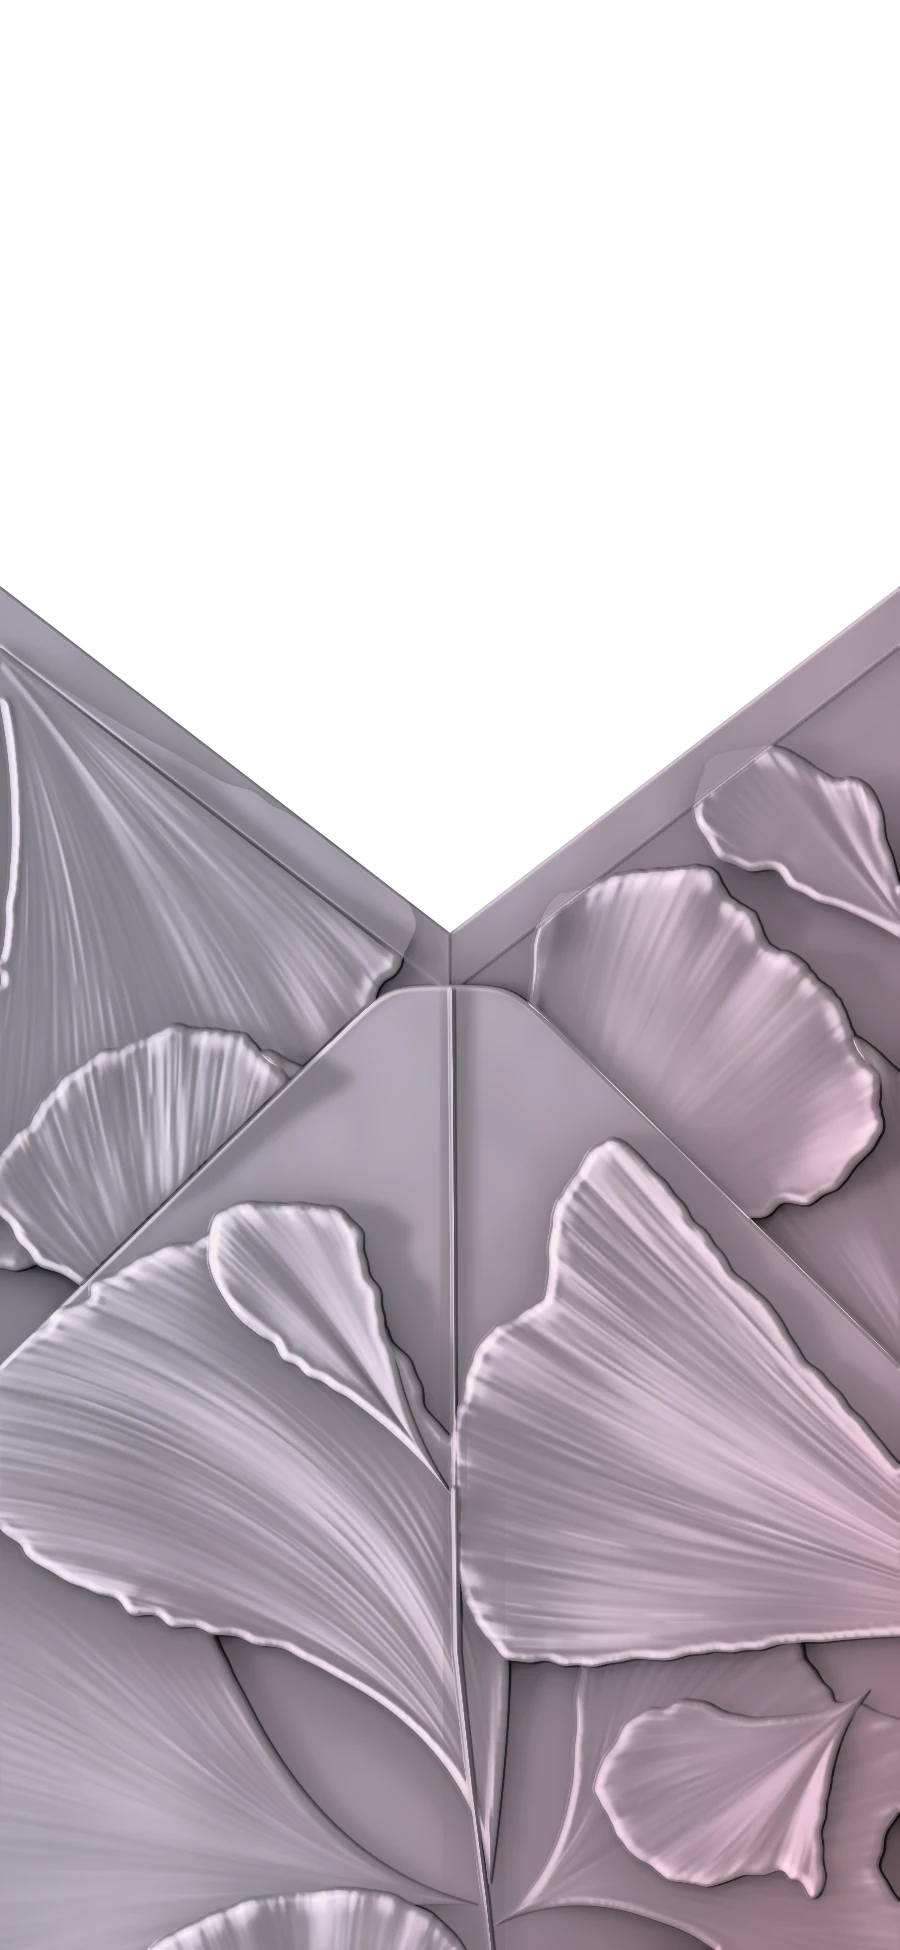
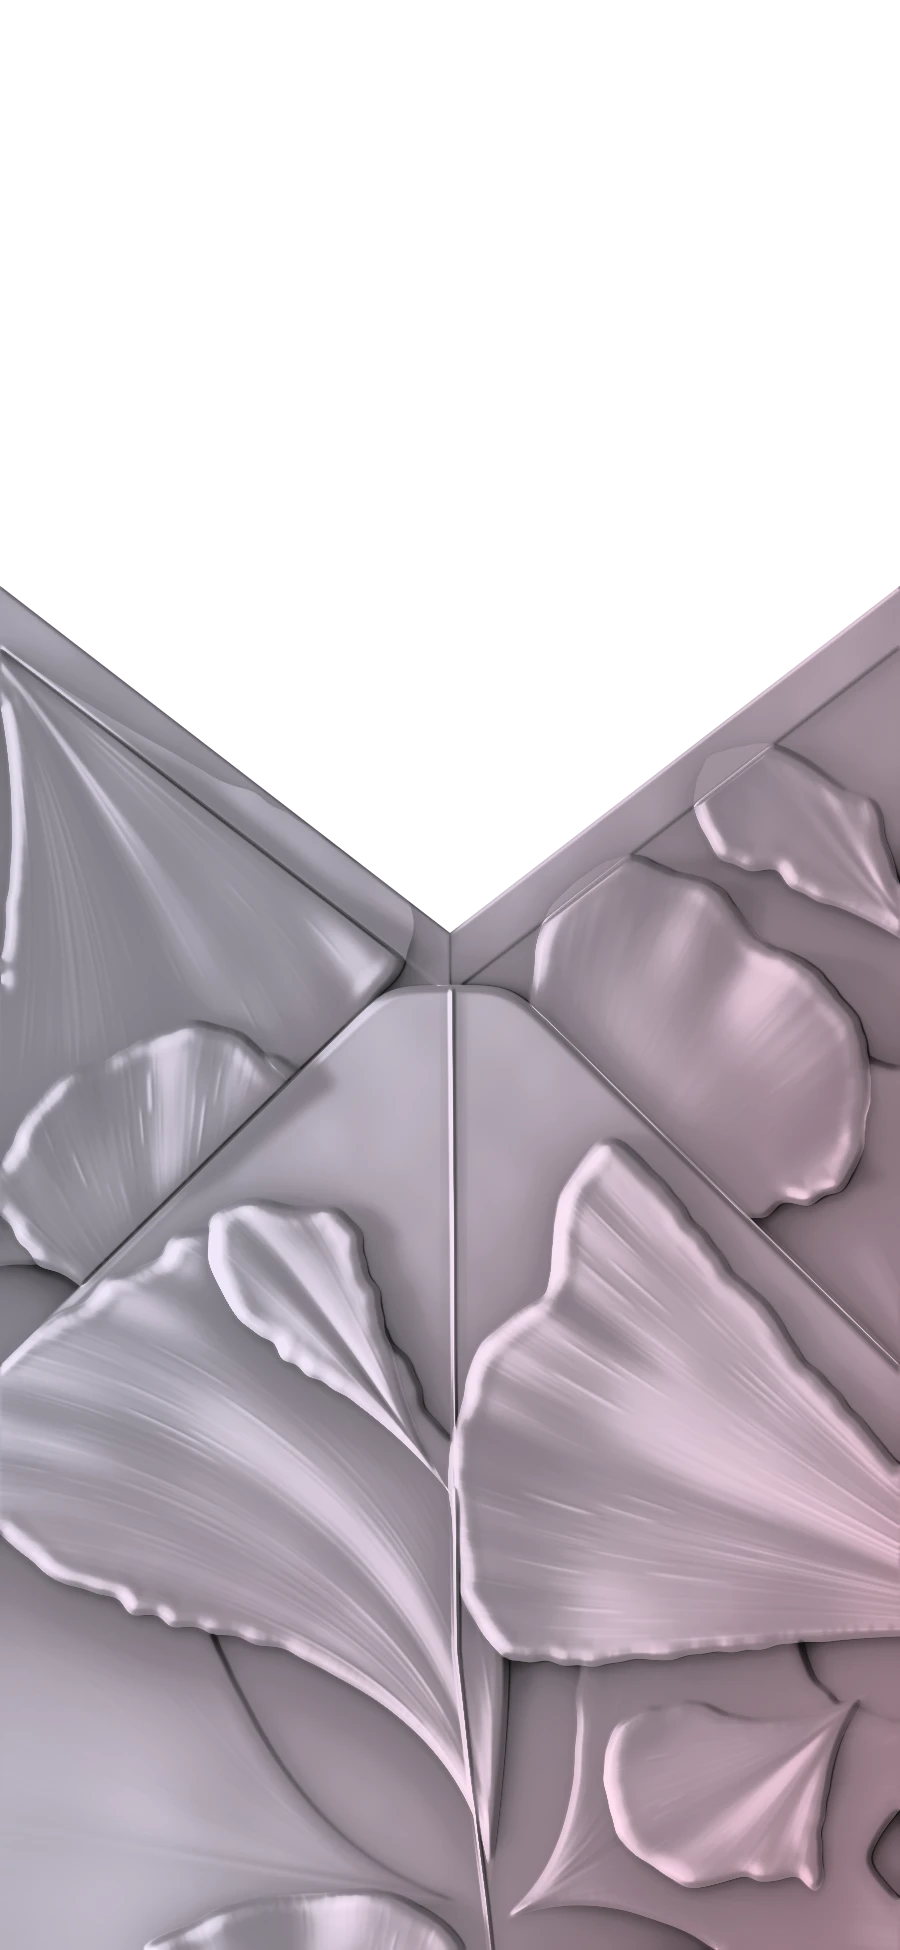
Website: envelope leaves smoothed (faint sparse veins, soft rolled rims, calmer light, two-lobed top fan)

diff --git a/Wedding Website/tools/ginkgo_env.py b/Wedding Website/tools/ginkgo_env.py
@@ -70,18 +70,18 @@ def pearl_shade(hgt, tint, ao=None, shadow=None):
         lum = lum * (1 - ao)
     silver = np.array([176, 175, 188], np.float32); mauve = np.array([178, 151, 165], np.float32)
     alb = silver[None, None] * (1 - tint[..., None]) + mauve[None, None] * tint[..., None]
-    col = alb * lum[..., None] + np.array([255, 248, 255], np.float32) * (0.12 * spec * lit)[..., None]
+    col = alb * lum[..., None] + np.array([255, 248, 255], np.float32) * (0.045 * spec * lit)[..., None]
     return np.clip(col, 0, 255)
 
 def shade_sheet(hgt, tint):
     """full lighting of a composited height field: normals + cast shadows + ambient occlusion"""
-    hs = cv2.GaussianBlur(hgt, (0, 0), max(0.55, 0.9 * SS))
+    hs = cv2.GaussianBlur(hgt, (0, 0), max(0.7, 1.15 * SS))
     sh = cast_shadow(hs) * SHADOW_K
     ao = (AO_K[0] * np.clip((cv2.GaussianBlur(hs, (0, 0), 9 * SS) - hs) / 12.0, 0, 1)
           + AO_K[1] * np.clip((cv2.GaussianBlur(hs, (0, 0), 34 * SS) - hs) / 30.0, 0, 1))
     return pearl_shade(hs, tint, ao=ao, shadow=sh), sh
 
-GLOSS_K = 0.24                # strength of the painted sheen (before the tone match)
+GLOSS_K = 0.13                # strength of the painted sheen (before the tone match)
 SHADOW_K = 0.56               # depth of the cast shadows (soft, never an ink outline)
 AO_K = (0.05, 0.30)           # contact / broad ambient occlusion
 DROP_K = (0.46, 0.58, 0.30)         # tight / wide contact shadow under every overlapping leaf (the stacked look)
@@ -137,7 +137,7 @@ def leaf_fields(cx, cy, R=300, ang=-90, spread=55, seed=0, f0=0.15, flare=0.8, b
     s = tcl * sp * R                                                        # arc position along the margin
     ph = rr.random(8) * 6.283
     # margin: broad lobes, scallops, crinkles and little torn nicks
-    w1 = _wave(s, 125, rr); w2 = _wave(s, 50, rr); w3 = _wave(s, 20, rr)
+    w1 = _wave(s, 190, rr); w2 = _wave(s, 85, rr); w3 = _wave(s, 34, rr)
     edge = R * (1 - droop * np.abs(tcl) ** 2.5 + lobes * 0.065 * _wave(s, 0.8 * sp * R, rr, 2))
     if prof is not None:                                                     # the traced outline, lobe by lobe
         tt = np.linspace(-1.25, 1.25, 501)
@@ -145,9 +145,9 @@ def leaf_fields(cx, cy, R=300, ang=-90, spread=55, seed=0, f0=0.15, flare=0.8, b
         ks = max(1.0, 7.0 / (sp * R) * 200)                                  # round the corners over ~7 px of arc
         pr = cv2.GaussianBlur(pr.reshape(1, -1).astype(np.float32), (0, 0), ks, borderType=cv2.BORDER_REPLICATE).ravel()
         edge = R * np.interp(tcl, tt, pr).astype(np.float32)
-        edge = edge + ruffle * (3.0 * w1 + 2.2 * w2 + 0.4 * w3)              # soft ruffles on top of the traced lobes
+        edge = edge + ruffle * (5.5 * w1 + 2.4 * w2 + 0.5 * w3)              # soft ruffles on top of the traced lobes
     else:
-        edge = edge + ruffle * (9.0 * w1 + 2.6 * w2 + 0.4 * w3)
+        edge = edge + ruffle * (12.0 * w1 + 3.0 * w2 + 0.5 * w3)
         for _c in range(int(rr.integers(1, 3))):                             # one or two little tears
             tn = rr.uniform(-0.8, 0.8)
             edge = edge - ruffle * rr.uniform(0.03, 0.06) * R * np.exp(-((tcl - tn) / rr.uniform(0.02, 0.035)) ** 2)
@@ -167,7 +167,7 @@ def leaf_fields(cx, cy, R=300, ang=-90, spread=55, seed=0, f0=0.15, flare=0.8, b
     dm = cv2.distanceTransform((alpha > 0.5).astype(np.uint8), cv2.DIST_L2, 5).astype(np.float32) / SS
     dm = cv2.GaussianBlur(dm, (0, 0), max(0.6, 1.0 * SS))
     # ---- height (design px)
-    h = thick * (1 - (1 - np.clip(dm / 15.0, 0, 1)) ** 2)                                # thick, softly rounded edge
+    h = thick * (1 - (1 - np.clip(dm / 24.0, 0, 1)) ** 2)                                # thick, softly rounded edge
     lipv = 0.72 + 0.28 * np.sin(s / 31.0 + ph[2]) * np.sin(r / 47.0 + ph[3])
     wm = smooth01((rc - 0.72) / 0.16)                                                     # 1 on the outer margin, 0 on the two sides
     # the margin is finely fluted: a comb of short radial ridges that die out a little way in (as in the video)
@@ -175,49 +175,50 @@ def leaf_fields(cx, cy, R=300, ang=-90, spread=55, seed=0, f0=0.15, flare=0.8, b
     ctab = cv2.GaussianBlur(rr.random((1, ncomb)).astype(np.float32), (0, 0), 0.8, borderType=cv2.BORDER_REFLECT).ravel()
     ctab = np.clip((ctab - ctab.mean()) / (ctab.std() + 1e-6) * 0.5 + 0.45, 0, 1)
     comb = np.interp((np.clip(t, -1.25, 1.25) + 1.25) / 2.5 * (ncomb - 1), np.arange(ncomb), ctab).astype(np.float32)
-    band = np.exp(-((dm - 10.0) / 10.0) ** 2) * smooth01(dm / 2.5)
-    lip = np.exp(-((dm - 7.0) / 5.0) ** 2) * lipv                                         # the rolled lip just inside the edge
-    h = h + rim * ((1 - wm) * 3.6 * lip + wm * (1.8 * lip + 0.35 * band * comb))
+    band = np.exp(-((dm - 14.0) / 12.0) ** 2) * smooth01(dm / 4.0)
+    lip = np.exp(-((dm - 12.0) / 9.0) ** 2) * lipv                                         # the rolled lip just inside the edge
+    h = h + rim * ((1 - wm) * 1.4 * lip + wm * (1.7 * lip + 0.10 * band * comb))
     h = h + cup * 6.0 * np.sin(math.pi * rc ** 0.85) * (0.7 + 0.3 * np.cos(1.7 * tcl + ph[0])) * smooth01(rc / 0.2)
     h = h - fold * 4.0 * np.exp(-(tcl / 0.16) ** 2) * smooth01((rc - 0.05) / 0.4)        # shallow valley on the axis
     for _i in range(int(rr.integers(2, 4))):                                              # broad soft radial folds
-        tc = rr.uniform(-0.85, 0.85); wd = rr.uniform(0.10, 0.25); amp = rr.choice([-1, 1]) * rr.uniform(1.0, 2.6)
+        tc = rr.uniform(-0.85, 0.85); wd = rr.uniform(0.10, 0.25); amp = rr.choice([-1, 1]) * rr.uniform(0.4, 1.0)
         h = h + amp * np.exp(-((tcl - tc) / wd) ** 2) * smooth01((rc - 0.12) / 0.4)
     nearm = smooth01((rc - 0.70) / 0.30) ** 1.3
-    h = h + curl * (10.0 * smooth01((rc - 0.66) / 0.34) ** 2 + nearm * (3.2 * w1 + 1.5 * w2))   # margin curls up, fluted
-    h = h + curl * 7.0 * np.exp(-ds / 18.0) * smooth01((rc - 0.2) / 0.3) * (1 + 0.08 * sw)   # sides roll up
+    h = h + curl * (7.5 * smooth01((rc - 0.66) / 0.34) ** 2 + nearm * (5.0 * w1 + 2.2 * w2))   # margin curls up, fluted
+    h = h + curl * 3.5 * np.exp(-ds / 22.0) * smooth01((rc - 0.2) / 0.3) * (1 + 0.08 * sw)   # sides roll up
     # veins: fine ridges of constant t (so they bend with the flare); sparse, most of them faint
     arc = A * r
     vein = np.zeros_like(h)
-    vw = max(1.8, 1.0 / SS)
-    for f, amp in ((12, 1.0), (24, 0.9), (48, 0.8), (96, 0.7), (192, 0.6), (384, 0.5), (768, 0.4)):
+    vw = max(1.15, 0.8 / SS)
+    for f, amp in ((10, 1.0), (22, 0.9), (46, 0.8), (94, 0.75), (190, 0.7), (380, 0.6)):
         tj = t + (0.40 / f) * np.sin(t * f * 0.61 + ph[f % 7]) + (0.22 / f) * np.sin(t * f * 1.37 + ph[(f + 2) % 7])
         u = (tj + 1) * f * 0.5
         idx = np.round(u)
         dpx = np.abs(u - idx) / (f * 0.5) * arc
         rnd = (np.sin(idx * 12.9898 + f * 78.233 + seed) * 43758.5453) % 1.0
         rnd2 = (np.sin(idx * 39.3468 + f * 11.135 + seed) * 24634.6345) % 1.0
-        if f <= 24:                                                      # primary veins: long, strongest by the petiole
-            along = 0.15 + 0.85 * (1 - smooth01((rc - 0.2) / 0.55))
+        if f <= 22:                                                      # primary veins: long, strongest by the petiole
+            along = (0.15 + 0.85 * (1 - smooth01((rc - 0.2) / 0.55))) * smooth01((rnd - 0.25) / 0.3)
         else:                                                            # hair-fine streaks: short soft dashes
-            along = smooth01(1.6 * np.sin(rc * (9.0 + 16.0 * rnd2) + rnd * 6.283) - 0.35)
+            along = smooth01(1.6 * np.sin(rc * (7.0 + 16.0 * rnd2) + rnd * 6.283) - 0.55) * smooth01((rnd2 - 0.15) / 0.25) * (0.35 + 0.65 * smooth01((rc - 0.45) / 0.4))
         on = smooth01((arc * 2 / f - 3.2) / 3.5)
         vein += amp * rnd ** 1.25 * along * on * np.exp(-(dpx / vw) ** 2)
     vis = 0.50 + 0.50 * np.sin(2.3 * tcl + 3.1 * rc + ph[1]) ** 2
     vein = np.clip(veins * vis * vein * smooth01((rn - 0.02) / 0.10) * (1 - 0.7 * smooth01((rn - 0.9) / 0.1)), 0, 1.4)
-    h = h + 0.9 * vein
+    h = h + 0.80 * vein
     # hand-modelled surface: soft lumps and a fine tooth
     hh_, ww_ = h.shape
     h = h + lumps * 9.0 * (noise(hh_, ww_, max(2, int(150 * SS)), 2, seed + 7) - 0.5) * smooth01(rc / 0.3)
     # silky radial striation (like brushed plaster): random stripes of constant t, in bands that keep ~3-8 px spacing
     stri = np.zeros_like(h)
     um = ((np.clip(t, -1.3, 1.3) + 1.3) / 2.6).astype(np.float32); vm = np.clip(rc, 0, 1).astype(np.float32)
-    for nu in (80, 160, 320, 640):
+    for nu in (160, 320, 640, 1280):
         tex = rr.random((7, nu)).astype(np.float32) - 0.5                 # long silky streaks
         smp = cv2.remap(tex, um * (nu - 1), vm * 6, cv2.INTER_CUBIC, borderMode=cv2.BORDER_REFLECT)
         spc = 2.6 * arc / nu
-        stri += smp * smooth01((spc - 2.2) / 2.0) * (1 - smooth01((spc - 4.6) / 3.5))
-    h = h + 1.05 * veins * stri * (0.35 + 0.65 * vis) * smooth01((rn - 0.04) / 0.12)
+        stri += smp * smooth01((spc - 1.0) / 1.0) * (1 - smooth01((spc - 2.4) / 1.6))
+    stri = stri * (0.15 + 0.85 * smooth01((noise(hh_, ww_, max(2, int(70 * SS)), 2, seed + 9) - 0.42) / 0.2))   # patchy: smooth areas between the streaks
+    h = h + 0.14 * veins * stri * (0.35 + 0.65 * vis) * smooth01((rn - 0.04) / 0.12)
     # petiole: a round stalk behind the base, running on into the blade as a ridge
     ca, sa = math.cos(math.radians(ang)), math.sin(math.radians(ang))
     u = dx * ca + dy * sa; v = -dx * sa + dy * ca
@@ -230,10 +231,10 @@ def leaf_fields(cx, cy, R=300, ang=-90, spread=55, seed=0, f0=0.15, flare=0.8, b
         h = np.where(a_st > alpha, h_st, np.maximum(h, h_st * a_st))
         alpha = np.maximum(alpha, a_st)
     # painted sheen: the top of the rolled rim, the vein ridges and the silky streaks catch the light
-    roll = np.exp(-((dm - 5.5) / 4.0) ** 2)
-    rimg = rim * ((1 - wm) * 1.35 * roll * (0.5 + 0.5 * lipv) + wm * (0.45 * roll + 1.4 * band * comb))
+    roll = np.exp(-((dm - 10.0) / 8.0) ** 2)
+    rimg = rim * ((1 - wm) * 0.20 * roll * (0.5 + 0.5 * lipv) + wm * (0.30 * roll * (0.6 + 0.4 * lipv) + 0.25 * band * comb))
     strk = np.clip(stri, -0.3, 1.0) * (0.35 + 0.65 * vis) * smooth01((rn - 0.04) / 0.12)                     # signed: light and dark streaks
-    gloss = rimg + veins * (0.85 * np.clip(vein, 0, 1) + 0.75 * strk)
+    gloss = rimg + veins * (1.50 * np.clip(vein, 0, 1) + 0.38 * strk)
     return x0, y0, alpha.astype(np.float32), (h * HSCALE).astype(np.float32), vein.astype(np.float32), gloss.astype(np.float32)
 
 def stem_fields(pts, width, bbox=None):
@@ -267,7 +268,7 @@ class Canvas:
         self.dark = np.zeros((h, w), np.float32)
         self.drop = np.zeros((h, w), np.float32)      # contact shadows each leaf drops on the layers beneath it
 
-    def layer(self, f, clip=None, tint=0.0, lift=0.0, tone=1.0, drop=1.0):
+    def layer(self, f, clip=None, tint=0.0, lift=0.0, tone=1.0, drop=1.0, soft=4.5):
         """drape a leaf over what is already there"""
         if f is None: return
         x0, y0, a, hgt = f[:4]
@@ -275,7 +276,11 @@ class Canvas:
         if clip is not None: a = a * clip[y0:y0 + hh, x0:x0 + ww]
         reg = self.hg[y0:y0 + hh, x0:x0 + ww]
         base = cv2.GaussianBlur(reg, (0, 0), 38 * SS)
-        reg[:] = reg * (1 - a) + (base + hgt + lift + LAYER_LIFT * HSCALE) * a
+        top = base + hgt + lift + LAYER_LIFT * HSCALE
+        if soft:
+            ah = smooth01((cv2.GaussianBlur(a, (0, 0), soft * SS) - 0.42) / 0.5)
+            top = reg * (1 - ah) + top * ah
+        reg[:] = reg * (1 - a) + top * a
         if drop:                                       # the leaf lies ON what is there: a tight contact shadow + a wide soft one
             ap = cv2.copyMakeBorder(a, 0, 0, 0, 0, cv2.BORDER_CONSTANT)
             s1 = cv2.GaussianBlur(cv2.warpAffine(ap, np.float32([[1, 0, 2 * SS], [0, 1, 6 * SS]]), (ww, hh)), (0, 0), 5.0 * SS)
@@ -343,8 +348,8 @@ SIDE_LEAVES = [                               # on the two side flaps (the botto
               (870, 1150), (840, 1200)]),                                                               # R0 soft, right of the seal
 ]
 BOT_LEAVES = [                                # on the bottom flap
-    dict(cx=478, cy=1905, R=720, ang=-170, spread=40, seed=130, ruffle=0.3, curl=0.3, tone=0.97, veins=0.25, rim=0.3,
-         thick=4.0, lumps=0.5),                                                                         # B6 faint folds, lower left
+    dict(cx=478, cy=1905, R=720, ang=-170, spread=40, seed=130, ruffle=0.3, curl=0.12, tone=0.99, veins=0.08, rim=0.15,
+         thick=2.0, lumps=0.25, cup=0.15, fold=0.2, drop=0.4),                                                                         # B6 faint folds, lower left
     dict(cx=300, cy=2210, seed=131, tone=0.96, ruffle=0.4, curl=0.6, veins=0.4, lumps=0.5,
          pts=[(110, 1975), (200, 1922), (260, 1898), (330, 1890), (400, 1897), (450, 1925), (490, 1975)]),   # B5 very bottom
     dict(cx=495, cy=1925, R=430, ang=-30, spread=44, seed=132, tint=0.10, tone=0.92, veins=0.5, ruffle=0.5, thick=2.5, rim=0.35, curl=0.4),   # B4 lower right
@@ -367,9 +372,9 @@ FLAP_LEAVES = [
     dict(cx=450, cy=1010, seed=204, f0=0.85, ruffle=0.5, curl=0.15, rim=0.5, tone=1.06, veins=0.15, lumps=0.5,
          pts=[(150, 770), (175, 712), (240, 722), (330, 700), (350, 712), (410, 740), (450, 765), (500, 762), (560, 800),
               (600, 860), (625, 920)]),                                                   # F4 smooth, over the tip
-    dict(cx=470, cy=712, seed=203, f0=0.13, flare=0.85, fexp=1.6, stem=42, stem_bend=0.1, veins=1.35, ruffle=0.8,
+    dict(cx=470, cy=712, seed=203, f0=0.13, flare=0.85, fexp=1.6, stem=42, stem_bend=0.1, veins=1.2, ruffle=1.3,
          pts=[(15, 340), (-30, 220), (-10, 120), (60, 85), (120, 68), (190, 48), (260, 40), (320, 20), (380, -30),
-              (470, -50), (560, 5), (610, 50), (632, 62), (646, 96), (662, 72), (720, 88), (790, 125), (850, 150),
+              (470, -50), (560, 5), (606, 40), (628, 80), (641, 175), (656, 90), (675, 62), (720, 72), (790, 125), (850, 150),
               (890, 200), (930, 330), (910, 440), (875, 485), (903, 546)]),               # F1 the big fan
 ]
 
@@ -405,23 +410,23 @@ def build_body():
     hem_h = paper_s + HSCALE * HEM_T * (1 - (1 - np.clip(np.minimum(dmo, HEM - dmo) / 3.0, 0, 1)) ** 2)
     cs.hg = cs.hg * (1 - hem) + hem_h * hem
     cs.alb = cs.alb * (1 - hem) + 1.045 * hem
-    cs.gl = cs.gl * (1 - hem) + 0.55 * np.exp(-((dmo - (HEM - 2.4)) / 1.8) ** 2) + 0.5 * np.exp(-((dmo - 2.2) / 1.8) ** 2)
+    cs.gl = cs.gl * (1 - hem) + 0.3 * np.exp(-((dmo - (HEM - 2.4)) / 1.8) ** 2) + 0.3 * np.exp(-((dmo - 2.2) / 1.8) ** 2)
     cs.dark = 0.20 * np.exp(-np.clip(dmo - HEM, 0, None) / 9.0) * (dmo > HEM)
-    cs.gl += 0.4 * np.exp(-((xx - W / 2 + 1.5) / 1.6) ** 2)                      # the centre seam between the side flaps
+    cs.gl += 0.2 * np.exp(-((xx - W / 2 + 1.5) / 2.2) ** 2)                      # the centre seam between the side flaps
     cs.dark = np.maximum(cs.dark, 0.16 * np.exp(-np.clip(xx - W / 2, 0, None) / 7.0) * (xx > W / 2))
     # ---- layer 2: the bottom flap, a lighter sheet of its own lying over the side flaps
     paper_b = flat_paper(TH, TW, 12) * 0.6
     cb = Canvas(TW, TH, tint, paper_b)
     _lay(cb, BOT_LEAVES, None, bb)
-    cb.layer(stem_fields(BODY_CREASE, 4.5, bb))
-    cb.layer(stem_fields(BODY_TWIG, 8.5, bb))
+    _f = stem_fields(BODY_CREASE, 3.5, bb); cb.layer(_f[:3] + (_f[3] * 0.4,), drop=0.2, soft=0)
+    _f = stem_fields(BODY_TWIG, 6.0, bb); cb.layer(_f[:3] + (_f[3] * 0.45,), drop=0.25, soft=0)
     m = smooth01(dbf * SS / 1.5 + 0.5)
-    bevel = BOT_T * (1 - (1 - np.clip(dbf / 4.0, 0, 1)) ** 2)                   # rounded cut edge of the paper
+    bevel = BOT_T * (1 - (1 - np.clip(dbf / 9.0, 0, 1)) ** 2)                   # rounded cut edge of the paper
     cv = Canvas(TW, TH, tint, paper_s)
     cv.hg = cs.hg * (1 - m) + (cb.hg + HSCALE * bevel) * m
     cv.alb = cs.alb * 0.95 * (1 - m) + cb.alb * 1.05 * m
     seam_hi = np.exp(-((dbf - 2.4) / 1.9) ** 2)                                # lit edge of the flap, the same on both sides
-    cv.gl = cs.gl * (1 - m) + (cb.gl * (1 - seam_hi) + 1.5 * seam_hi) * m
+    cv.gl = cs.gl * (1 - m) + (cb.gl * (1 - 0.6 * seam_hi) + 0.6 * seam_hi) * m
     cv.dark = np.maximum(cs.dark * (1 - m), (0.36 + 0.34 * (xx > W / 2)) * np.exp(-np.clip(-dbf, 0, None) / (11.0 + 5.0 * (xx > W / 2))) * (1 - m))   # its soft shadow on the side flaps
     cv.tint = np.clip(cv.tint - 0.05 * m, 0, 1)
     cv.drop = cs.drop * (1 - m) + cb.drop * m
@@ -441,7 +446,7 @@ def build_flap():
     rgb = cv.render()
     # the folded edge of the flap catches a little light
     edge = np.exp(-(np.clip(dist, 0, None) / 2.6) ** 2) * mask
-    rgb = np.clip(rgb * (1 + 0.08 * (1 - smooth01(dist / 22.0)) * mask)[..., None] + 40 * edge[..., None], 0, 255)
+    rgb = np.clip(rgb * (1 + 0.08 * (1 - smooth01(dist / 22.0)) * mask)[..., None] + 16 * edge[..., None], 0, 255)
     return rgb, mask
 
 # ------------------------------------------------------------------ wax seal (oval, thick irregular rim, A & L)
